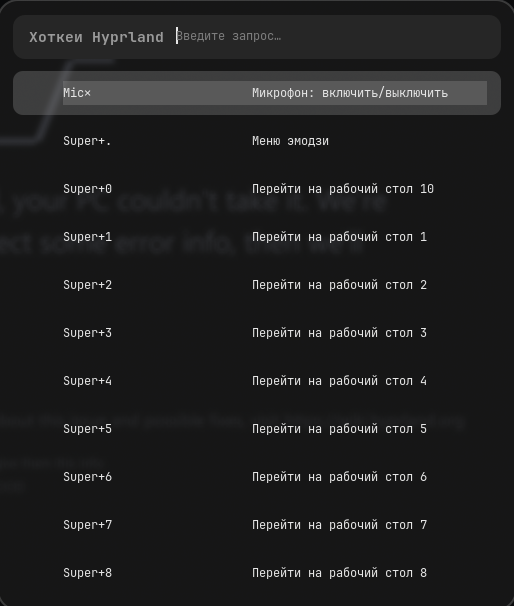
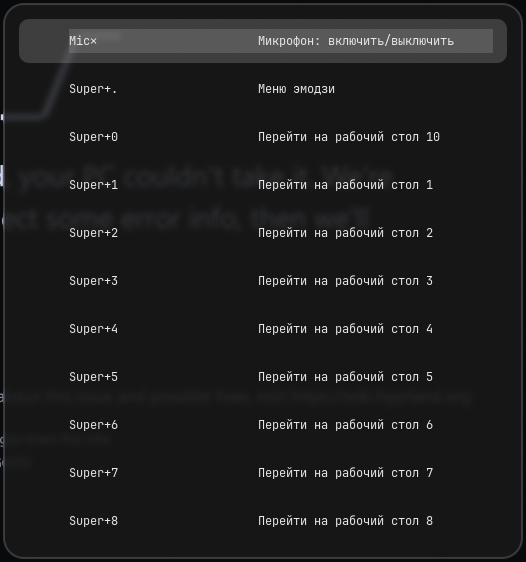
скриншоты: лаунчер и питание без строки поиска + README

diff --git a/README.md b/README.md
@@ -5,6 +5,10 @@
 </p>
 
 <p align="center">
+    <img src=".github/powermenu.png" alt="Меню питания" width="505"/>
+</p>
+
+<p align="center">
     <img src=".github/desktop.png" alt="Рабочий стол" width="640"/>
 </p>
 
@@ -18,7 +22,7 @@
 | Компонент           | Файл                        | Что внутри |
 |----------------------|-----------------------------|------------|
 | Hyprland 0.56+       | `hypr/hyprland.lua`         | конфиг **на Lua** (не hyprlang): мониторы, окна, воркспейсы, бинды, blur |
-| Rofi                 | `rofi/config.rasi`<br>`rofi/themes/graphite.rasi` | лаунчер приложений, меню обоев (с превью), эмодзи, хоткеи, питание в одной теме |
+| Rofi                 | `rofi/config.rasi`<br>`rofi/themes/graphite.rasi` | лаунчер приложений, меню обоев (с превью), эмодзи, хоткеи, питание в одной теме; все меню — **без строки поиска** |
 | Waybar               | `waybar/config.jsonc`<br>`waybar/style.css` | воркспейсы, раскладка, часы, звук, сеть, приватность, питание, яркость, батарея |
 | Kitty                | `kitty/kitty.conf`          | основной терминал: палитра `#e6e6e6` на `#181818`, прозрачность 0.88, cursor trail |
 | Polybar              | `polybar/config.ini`<br>`polybar/launch.sh` | X11-бар (остался с bspwm-времён): CPU, память, температура, звук, яркость, батарея, плеер |
@@ -33,7 +37,7 @@
 - `Super + .` ↦ эмодзи (копирование в буфер)
 - `Super + Shift + L` ↦ текст песен (sptlrx, «эстетик»-режим)
 - `Super + Shift + /` ↦ окно со всеми хоткеями (живой список из `hyprctl binds`, русские описания)
-- `Super + Shift + P` ↦ меню питания: выключить / перезагрузить / спящий режим / выйти
+- `Super + Shift + P` ↦ меню питания: крупные значки в ряд (выключить / перезагрузить / спящий режим / выйти)
 
 ## Установка
 
@@ -61,7 +65,7 @@ cd hyprland-dotfiles
 | `brightnessctl`         | регулировка яркости |
 | `pavucontrol`           | GUI для Pipewire-звука |
 | `nmcli`, `nmtui`        | управление сетью |
-| `wl-copy`               | буфер обмена (для эмодзи) |
+| `wl-copy`               | буфер обмена под Wayland (для эмодзи); под X11 — `xclip` |
 | `notify-send`           | уведомления при смене обоев |
 
 ## Настройка
